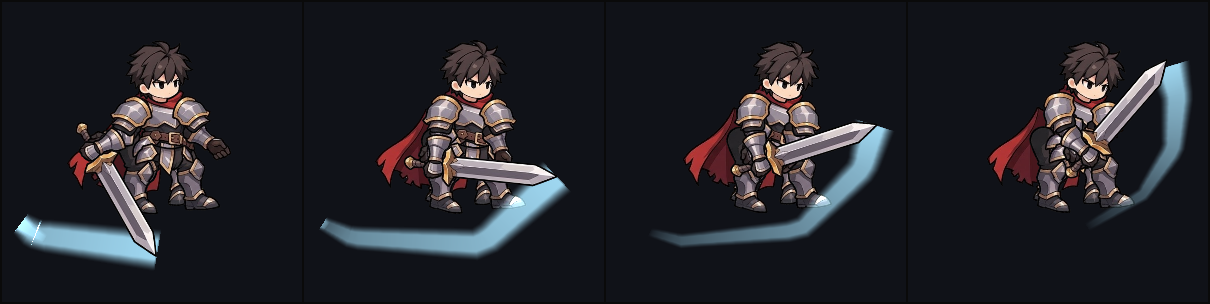
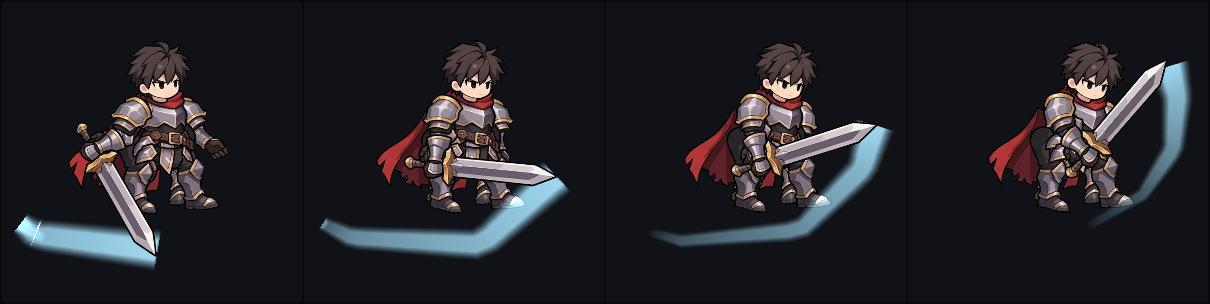
fix(samples): knight left arm is the far arm, drawn behind the torso
In the 3/4 view facing right the left arm hangs behind the body: only the edge
of its shoulder plate shows past the chest, the vambrace and fist run along the
side. It was drawn over the chest. Moved behind the torso and tucked in.

diff --git a/scripts/make-sample-characters.ts b/scripts/make-sample-characters.ts
@@ -34,9 +34,9 @@ const KNIGHT: CharDef = {
     { name: "blade_mid", parent: "sword", x: 31, y: 43, color: ANCHOR },
     { name: "sword_tip", parent: "sword", x: 129, y: -5, color: ANCHOR },
     // left arm chain: shoulder (upper arm L) → elbow (vambrace) → wrist (fist); "Hand L" is split at the cuff
-    { name: "arm_l", parent: "torso", x: 54, y: 216 },
-    { name: "forearm_l", parent: "arm_l", x: 66, y: 180 },
-    { name: "hand_l", parent: "forearm_l", x: 75, y: 136 },
+    { name: "arm_l", parent: "torso", x: 48, y: 216 },
+    { name: "forearm_l", parent: "arm_l", x: 62, y: 180 },
+    { name: "hand_l", parent: "forearm_l", x: 71, y: 136 },
     { name: "leg_r", parent: "hip", x: -30, y: 110 },
     { name: "shin_r", parent: "leg_r", x: -42, y: 60 },
     { name: "leg_l", parent: "hip", x: 30, y: 110 },
@@ -46,6 +46,10 @@ const KNIGHT: CharDef = {
   // back to front
   parts: [
     { part: "cape", bone: "cape", x: -100, y: 130 },
+    // left arm is the far arm (3/4 view facing right): it hangs behind the torso, only its edge shows
+    { part: "fist_l", bone: "hand_l", x: 66, y: 142 },
+    { part: "forearm_l", bone: "forearm_l", x: 66, y: 142 },
+    { part: "upper_arm_l", bone: "arm_l", x: 56, y: 202 },
     { part: "leg_l", bone: "leg_l", x: 38, y: 104 },
     { part: "boot_l", bone: "shin_l", x: 64, y: 64 },
     { part: "leg_r", bone: "leg_r", x: -34, y: 104 },
@@ -54,10 +58,6 @@ const KNIGHT: CharDef = {
     { part: "torso", bone: "torso", x: 2, y: 192 },
     { part: "tasset", bone: "hip", x: 4, y: 112 },
     { part: "head", bone: "head", x: 6, y: 294 },
-    // left arm: the hand/vambrace hangs under its shoulder plate
-    { part: "fist_l", bone: "hand_l", x: 70, y: 142 },
-    { part: "forearm_l", bone: "forearm_l", x: 70, y: 142 },
-    { part: "upper_arm_l", bone: "arm_l", x: 62, y: 202 },
     // sword arm: blade under the fist, forearm under the shoulder plate (pieces mirrored to point down-left)
     { part: "sword", bone: "sword", x: -14, y: 65, rotation: -26 },
     { part: "lower_arm_r", bone: "forearm_r", x: -80, y: 156, flipX: true },
